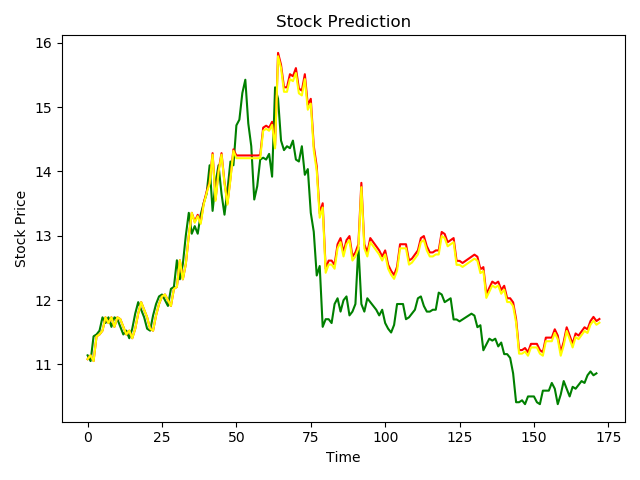
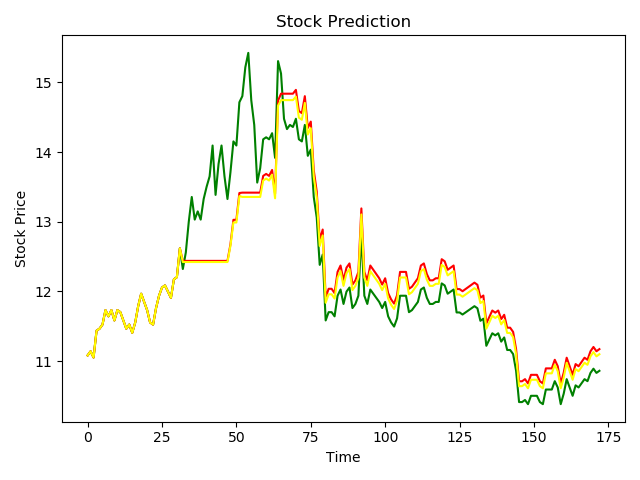
simplify the model

diff --git a/stock_predict.py b/stock_predict.py
@@ -73,7 +73,7 @@ def stock_predict(stock, quotes, divide_date):
 def generate_x_and_y(time_steps, change, *xs):
     # ( ,-big_num)大跌， (-big_num,-small_num)小跌， (-small_num,small_num)平， (small_num,big_num)小涨， (big_num, )大涨
     small_num = 0.5
-    big_num = 2
+    big_num = 1.5
 
     data_num = 0  # 参数的个数
 
@@ -135,7 +135,7 @@ def stock_operation(stock_name, change, close, mean, predict_state):
     :return:
     """
     base_money = close[0]  # 每天的金额，以第一天的前一天的收盘价为基础金额
-    close = close[1:]
+    # close = close[1:]
     base_money_fee = base_money  # 每天的金额，含手续费计算
     base = 1  # 用来计算收益率
     base_fee = base  # 用来计算含手续费的收益率
@@ -165,7 +165,7 @@ def stock_operation(stock_name, change, close, mean, predict_state):
         if predict_state[i] >= 0 and (not buyed):  # 预测结果不为跌 且 没有持有股票， 买入，手续费0.00032
             buyed = 1
             buy_num += 1
-            rate_temp = (mean[i] - close[i - 1]) / close[i - 1]  # 基于第二天股票均价相对于第一天收盘价的涨跌幅
+            rate_temp = (mean[i] - close[i]) / close[i]  # 基于第二天股票均价相对于第一天收盘价的涨跌幅
             base = base * (1 + rate_temp)
             base_money = base_money * (1 + rate_temp)
             base_fee = base_fee * (1 + rate_temp) * (1 - 0.00032)
@@ -173,7 +173,7 @@ def stock_operation(stock_name, change, close, mean, predict_state):
         elif predict_state[i] < 0 and buyed:  # 预测结果为跌 且 持有股票，抛出，手续费0.00132
             buyed = 0
             sell_num += 1
-            rate_temp = (mean[i] - close[i - 1]) / close[i - 1]  # 基于第二天股票均价相对于第一天收盘价的涨跌幅
+            rate_temp = (mean[i] - close[i]) / close[i]  # 基于第二天股票均价相对于第一天收盘价的涨跌幅
             base = base * (1 + rate_temp)
             base_money = base_money * (1 + rate_temp)
             base_fee = base_fee * (1 + rate_temp) * (1 - 0.00132)
@@ -230,7 +230,7 @@ if __name__ == '__main__':
 
     pool = multiprocessing.Pool(processes=2)
 
-    for stock in all_quotes[0:1]:
+    for stock in all_quotes[1:2]:
         quotes = quotes_dataframe[quotes_dataframe['secID'] == stock]
         pool.apply_async(stock_predict, (stock, quotes, divide_date))
 

diff --git a/ml_model.py b/ml_model.py
@@ -1,5 +1,5 @@
 from keras.models import Sequential
-from keras.layers import Dense, LSTM, BatchNormalization, Activation
+from keras.layers import Dense, LSTM, BatchNormalization, Activation, Dropout
 
 
 class MLModel:
@@ -13,17 +13,19 @@ class MLModel:
         # build recurrent neural network
         model = Sequential()
         # return_sequences=True返回的是全部输出
-        model.add(LSTM(units=128, return_sequences=True, input_shape=input_shape))
-        model.add(BatchNormalization())
-        model.add(LSTM(units=64))
-        model.add(BatchNormalization())
+        model.add(LSTM(units=64, input_shape=input_shape))
+        # model.add(LSTM(units=64, return_sequences=True, input_shape=input_shape))
+        model.add(Dropout(0.2))
+        # model.add(LSTM(units=32))
+        # model.add(Dropout(0.2))
         model.add(Dense(units=5))
         model.add(Activation('softmax'))
         # add optimizer and loss function
         model.compile(optimizer='adam',loss='mean_squared_error', metrics=['accuracy'])
+        model.summary()
         return model
 
-    def train_model(self, x_train, y_train, epoch=1, batch_size=None):
+    def train_model(self, x_train, y_train, epoch=3, batch_size=None):
         self.model.fit(x=x_train, y=y_train, epochs=epoch, batch_size=batch_size)
 
     def train_once(self, x_train, y_train):
